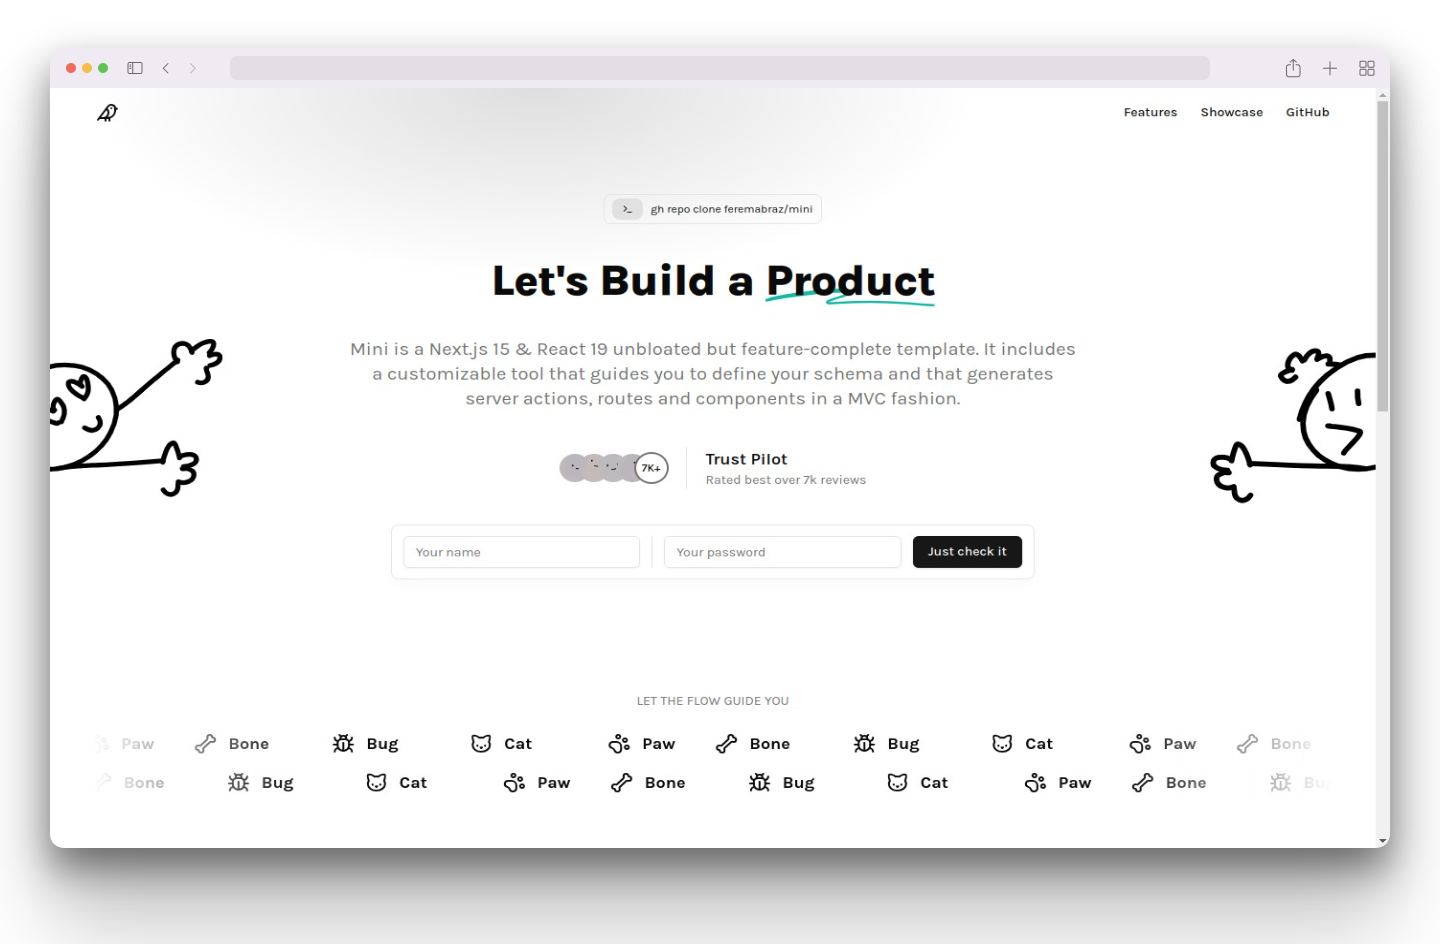
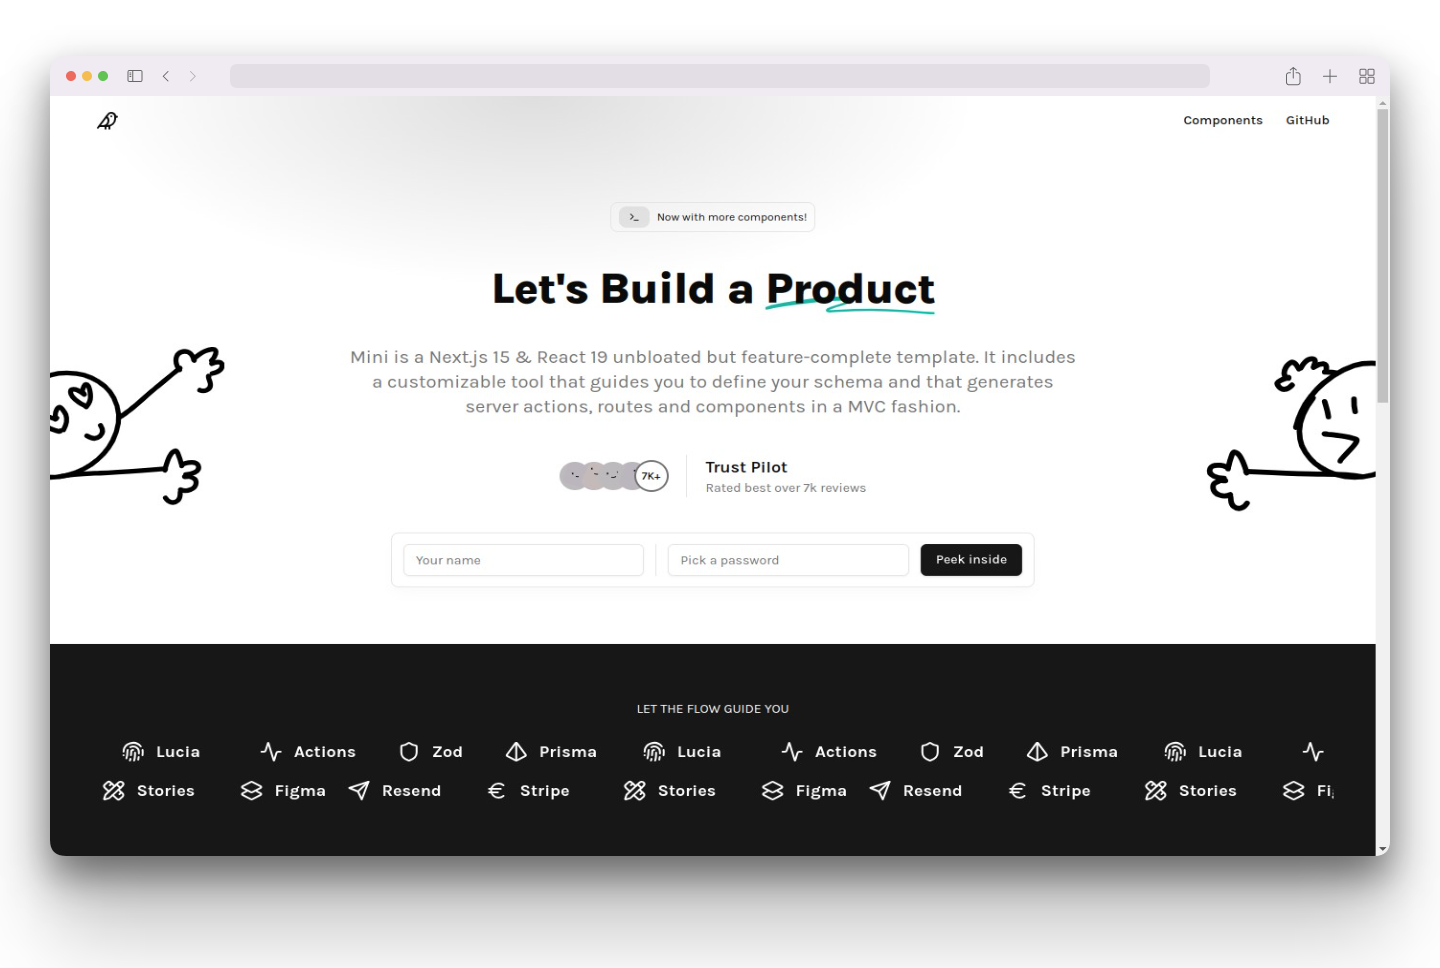
refactor: landing design

diff --git a/components/banner.tsx b/components/banner.tsx
@@ -1,47 +1,62 @@
 'use client';
 
 import { Scroller } from '@/components/ui/scroller';
-import { Bone, Bug, Cat, PawPrint } from 'lucide-react';
+import {
+  Activity,
+  Euro,
+  Fingerprint,
+  Layers2,
+  PencilRuler,
+  Pyramid,
+  Send,
+  Shield,
+} from 'lucide-react';
 
 export function Banner() {
   return (
-    <section className="max-w-[85rem] mx-auto px-4 sm:px-6 lg:px-8 py-16">
-      <p className="text-sm text-center text-muted-foreground uppercase pb-4">
-        Let the flow guide you
-      </p>
-      <Scroller
-        useLogos={true}
-        logos={[
-          { icon: Bone, name: 'Bone' },
-          { icon: Bug, name: 'Bug' },
-          { icon: Cat, name: 'Cat' },
-          { icon: PawPrint, name: 'Paw' },
-        ]}
-        transition={{
-          x: {
-            duration: 10,
-            repeat: Infinity,
-            repeatType: 'reverse',
-          },
-        }}
-      />
-      <Scroller
-        useLogos={true}
-        logos={[
-          { icon: Bone, name: 'Bone' },
-          { icon: Bug, name: 'Bug' },
-          { icon: Cat, name: 'Cat' },
-          { icon: PawPrint, name: 'Paw' },
-        ]}
-        animate={{ x: [0, -1000] }}
-        transition={{
-          x: {
-            duration: 10,
-            repeat: Infinity,
-            repeatType: 'reverse',
-          },
-        }}
-      />
+    <section className="bg-neutral-900 w-full">
+      <div className="max-w-[85rem] mx-auto px-4 sm:px-6 lg:px-8 py-16">
+        <p className="text-sm text-center text-primary-foreground uppercase pb-4">
+          Let the flow guide you
+        </p>
+        <div className="overflow-hidden">
+          <Scroller
+            className="text-white"
+            useLogos={true}
+            logos={[
+              { icon: Pyramid, name: 'Prisma' },
+              { icon: Fingerprint, name: 'Lucia' },
+              { icon: Activity, name: 'Actions' },
+              { icon: Shield, name: 'Zod' },
+            ]}
+            transition={{
+              x: {
+                duration: 10,
+                repeat: Infinity,
+                repeatType: 'reverse',
+              },
+            }}
+          />
+          <Scroller
+            className="text-white"
+            useLogos={true}
+            logos={[
+              { icon: Send, name: 'Resend' },
+              { icon: Euro, name: 'Stripe' },
+              { icon: PencilRuler, name: 'Stories' },
+              { icon: Layers2, name: 'Figma' },
+            ]}
+            animate={{ x: [0, -1000] }}
+            transition={{
+              x: {
+                duration: 10,
+                repeat: Infinity,
+                repeatType: 'reverse',
+              },
+            }}
+          />
+        </div>
+      </div>
     </section>
   );
 }

diff --git a/components/hero.tsx b/components/hero.tsx
@@ -18,12 +18,12 @@ export function Hero() {
           <div className="flex justify-center">
             <a
               className="inline-flex items-center gap-x-2 border text-xs px-2 py-1 rounded-lg transition"
-              href="#"
+              href="https://mini-storybook-liard.vercel.app/"
             >
               <span className="py-1.5 px-2.5 inline-flex justify-center items-center gap-x-2 rounded-lg bg-muted-foreground/15 font-semibold text-sm">
                 <Terminal className="size-3" />
               </span>
-              gh repo clone feremabraz/mini
+              Now with more components!
             </a>
           </div>
           {/* End Announcement Banner */}
@@ -102,16 +102,16 @@ export function Hero() {
                   htmlFor="password"
                   className="block text-sm font-medium dark:text-white"
                 >
-                  <span className="sr-only">Your password</span>
+                  <span className="sr-only">Pick a password</span>
                 </Label>
                 <Input
                   type="password"
                   id="password"
-                  placeholder="Your password"
+                  placeholder="Pick a password"
                 />
               </div>
               <div className="pt-2 sm:pt-0 grid sm:block sm:flex-[0_0_auto]">
-                <Button>Just check it</Button>
+                <Button>Peek inside</Button>
               </div>
             </div>
           </form>

diff --git a/components/features.tsx b/components/features.tsx
@@ -26,6 +26,24 @@ export function Features() {
           icon={<BookText />}
         />
       </div>
+      <div
+        className="mt-8 mx-20 inverse-toggle px-5 pt-4 shadow-lg text-gray-100 text-sm font-mono subpixel-antialiased 
+              bg-neutral-900 pb-6 rounded-lg leading-normal overflow-hidden"
+      >
+        <div className="top mb-2 flex">
+          <div className="h-3 w-3 bg-red-500 rounded-full"></div>
+          <div className="ml-2 h-3 w-3 bg-orange-300 rounded-full"></div>
+          <div className="ml-2 h-3 w-3 bg-green-500 rounded-full"></div>
+        </div>
+        <div className="mt-4 flex">
+          <span className="text-green-400">computer:~$</span>
+          <p className="flex-1 typing items-center pl-2">
+            git clone https://github.com/feremabraz/mini-saas.git && cd
+            mini-saas && pnpm mini
+            <br />
+          </p>
+        </div>
+      </div>
     </section>
   );
 }

diff --git a/app/page.tsx b/app/page.tsx
@@ -5,17 +5,15 @@ import { Footer } from '@/components/footer';
 import { Faq } from '@/components/faq';
 
 import { FixedNav } from '@/components/ui/fixed-nav';
-import { StickyNav } from '@/components/ui/sticky-nav';
 
 export default function LandingPage() {
   const links = [
-    { href: '#features', label: 'Features' },
-    { href: '#showcase', label: 'Showcase' },
-    { href: 'https://github.com/', label: 'GitHub' },
+    { href: 'https://mini-storybook-liard.vercel.app/', label: 'Components' },
+    { href: 'https://github.com/feremabraz/mini-saas', label: 'GitHub' },
   ];
   return (
     <>
-      <StickyNav links={links} />
+      <FixedNav links={links} />
       <main>
         <Hero />
         <Banner />
